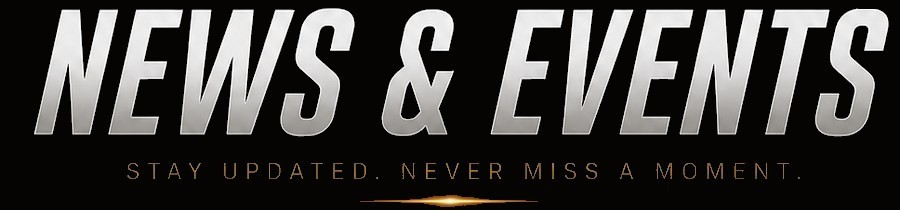
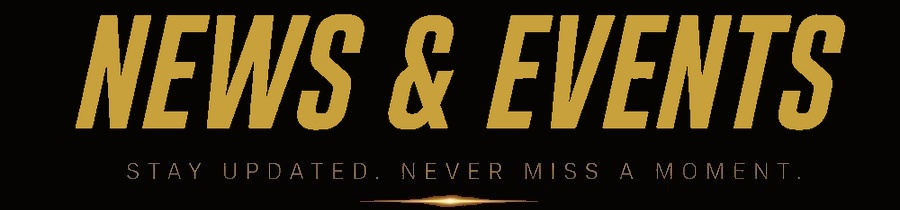
brilho/cor no hero do The Q + "NEWS & EVENTS" dourado solido e menor
Hero: satura e clareia um pouco a foto (filter, sem regravar o JPG) e soma
um halo dourado quente centrado no "Q" via radial-gradient com
mix-blend-mode:screen -- simulei com sharp antes de aplicar, ficou mais
rico sem passar do ponto.

banner-news.jpg: isolei a mascara de luminancia so do titulo "NEWS &
EVENTS" (o resto da arte -- subtitulo, linha dourada, moldura -- ficou
intocado), troquei o metalico prateado em degrade por um preenchimento
solido na cor --gold do app, e encolhi o texto ~10% recentralizando no
mesmo quadro.

Claude-Session: https://claude.ai/code/session_01DTJSngPeFnGjb4SG3RVnMf

diff --git a/src/pages/TheQPage.css b/src/pages/TheQPage.css
@@ -65,6 +65,22 @@
   display: block;
 }
 
+/* Realça o dourado do hero sem regravar o JPG -- satura e clareia um pouco
+   a foto inteira, e o brilho por cima (::before, abaixo) soma um halo quente
+   centrado no "Q", como um brilho de estúdio batendo nele. */
+.theq-hero img {
+  filter: saturate(1.18) brightness(1.04) contrast(1.06);
+}
+
+.theq-hero::before {
+  content: '';
+  position: absolute;
+  inset: 0;
+  background: radial-gradient(55% 50% at 50% 40%, rgba(255, 208, 110, 0.35), transparent 72%);
+  mix-blend-mode: screen;
+  pointer-events: none;
+}
+
 /* Costura entre o hero (THE Q / LAS VEGAS, NV) e o banner de News & Events:
    são dois JPGs separados, cada um com o próprio fundo, e emendados sem
    nada entre eles pareciam duas caixas empilhadas em vez de uma coisa só.
